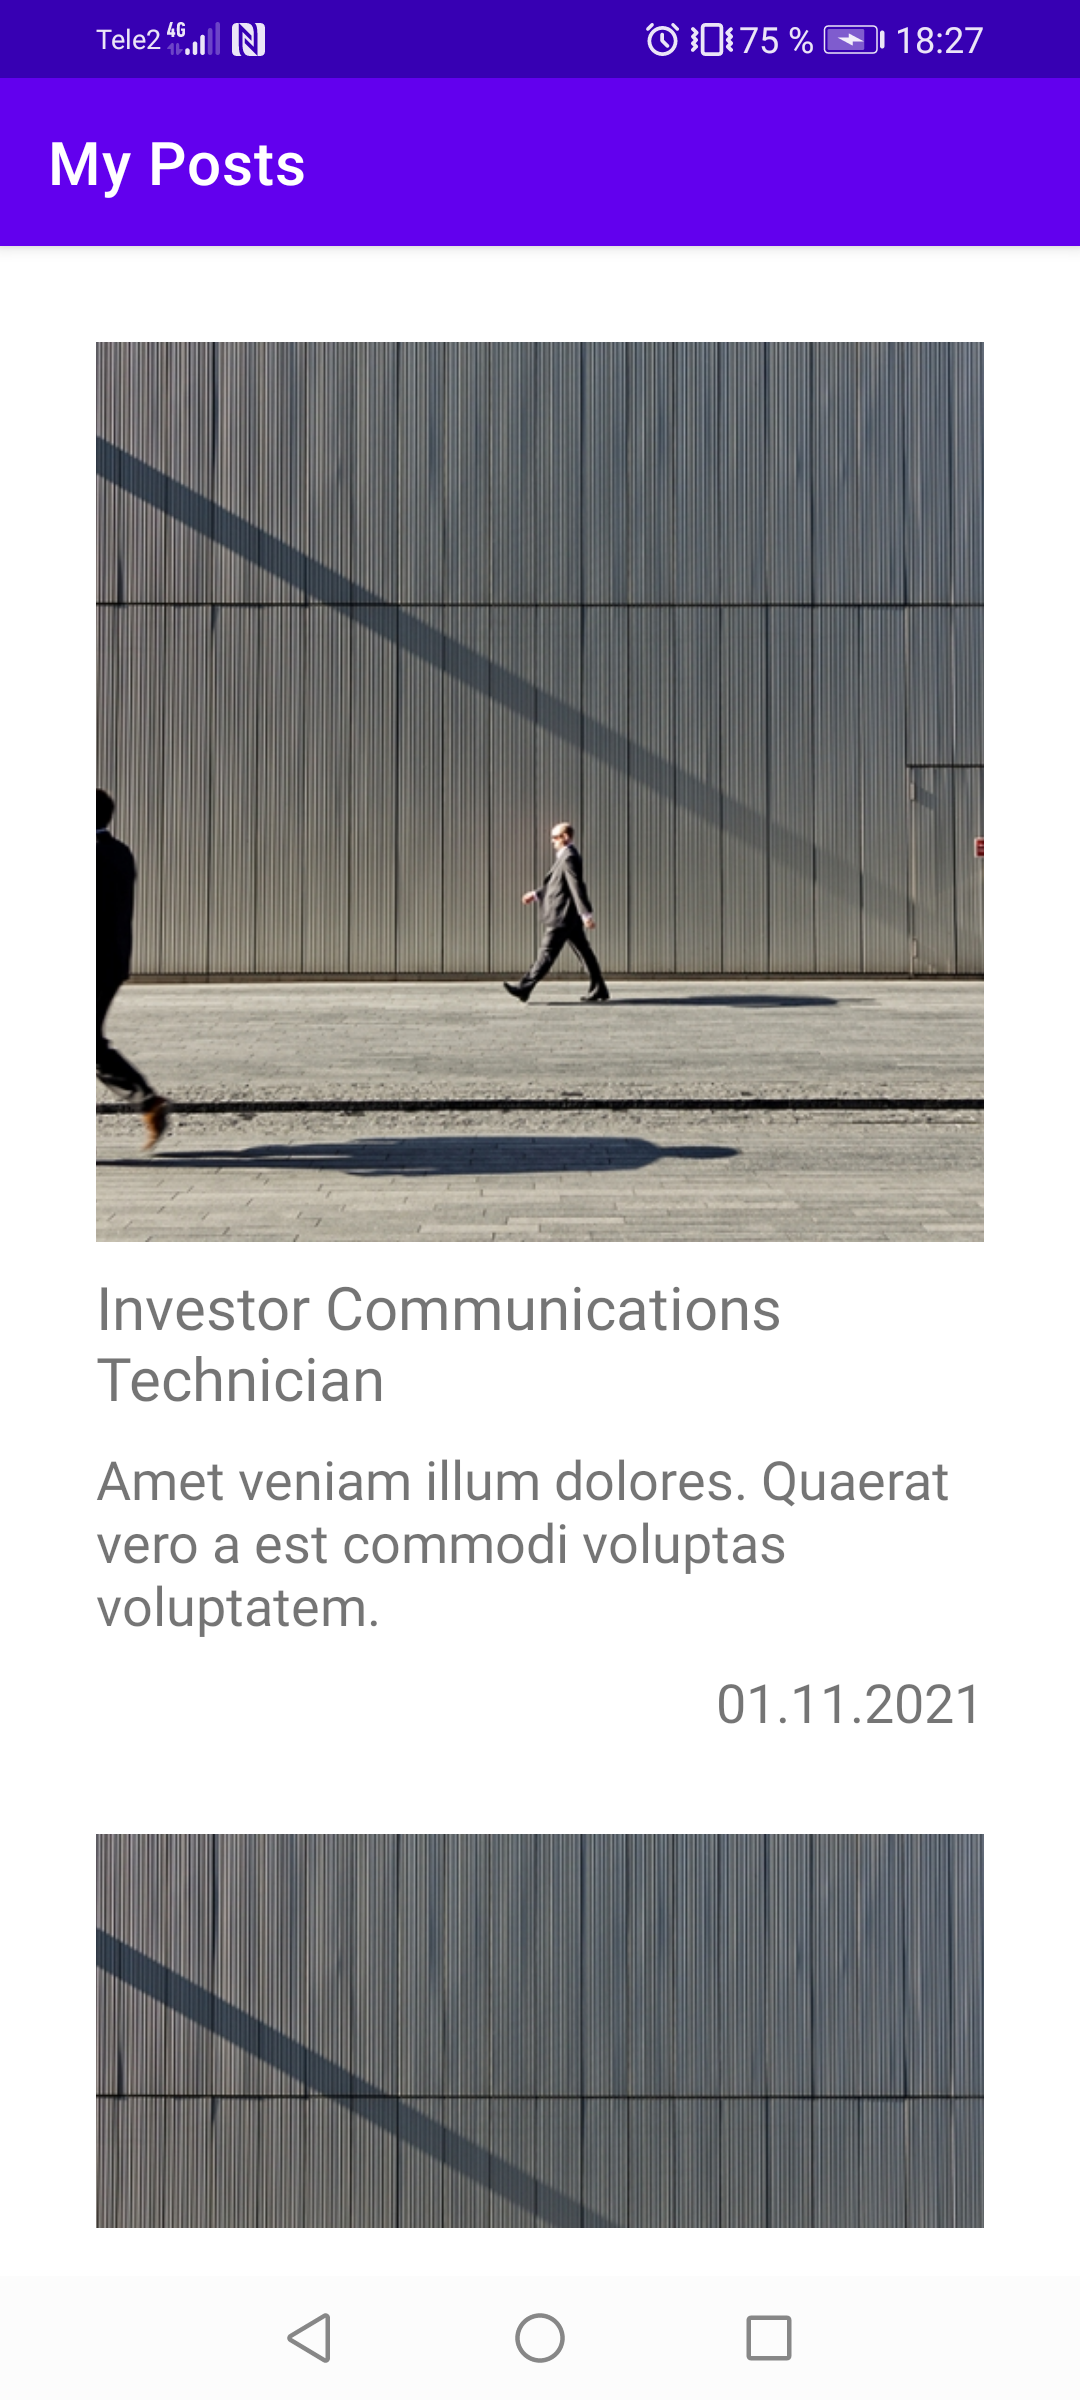
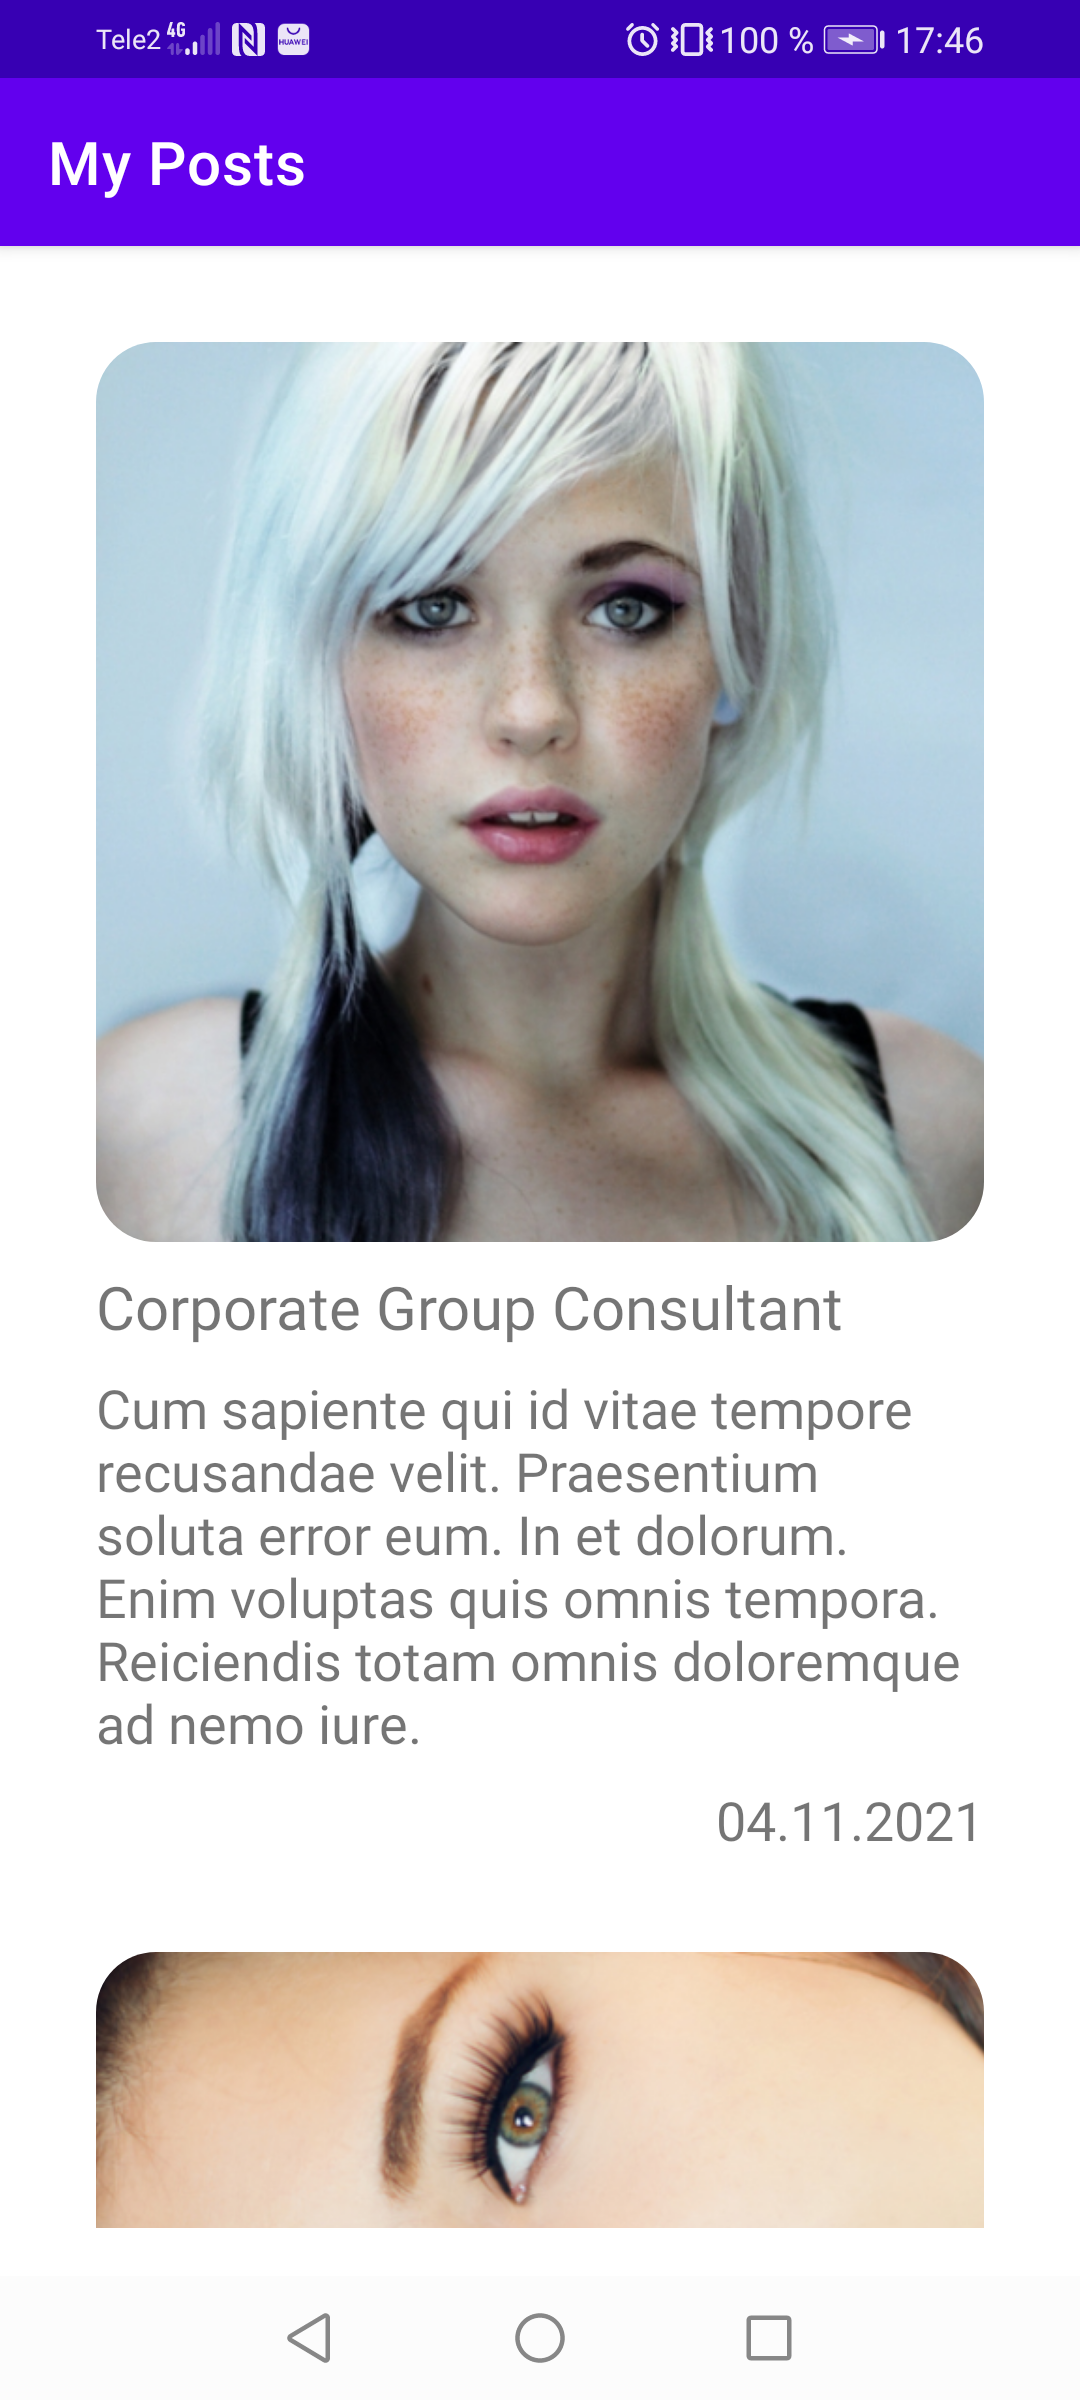
изменение скринов для прилы MyPosts

diff --git a/MyPosts/app/src/main/java/ru/freeit/myposts/ui/view/RoundedImageView.kt b/MyPosts/app/src/main/java/ru/freeit/myposts/ui/view/RoundedImageView.kt
@@ -1,0 +1,48 @@
+package ru.freeit.myposts.ui.view
+
+import android.content.Context
+import android.graphics.*
+import android.graphics.drawable.BitmapDrawable
+import android.util.AttributeSet
+import androidx.appcompat.widget.AppCompatImageView
+
+class RoundedImageView @JvmOverloads constructor(
+    ctx: Context,
+    attrs: AttributeSet? = null,
+    defStyleAttr: Int = 0
+) : AppCompatImageView(ctx, attrs, defStyleAttr) {
+
+    private val Int.dp
+        get() = context.resources.displayMetrics.density * this
+
+    private val roundedBitmapPaint = Paint(Paint.ANTI_ALIAS_FLAG).apply {
+        color = 0xff424242.toInt()
+    }
+
+    override fun onDraw(canvas: Canvas) {
+        val drawable = drawable ?: return
+        if (width == 0 || height == 0) {
+            return
+        }
+        val bitmap = (drawable as BitmapDrawable).bitmap
+        val roundedBitmap = rounded(bitmap, 20.dp)
+        canvas.drawBitmap(roundedBitmap, 0f, 0f, null)
+    }
+
+    private fun rounded(bitmap: Bitmap, radius: Float) : Bitmap {
+        val result = Bitmap.createBitmap(bitmap.width, bitmap.height, Bitmap.Config.ARGB_8888)
+        val canvas = Canvas(result)
+        canvas.drawARGB(0, 0, 0, 0)
+
+        val rectF = RectF(0f, 0f, bitmap.width / 1f, bitmap.height / 1f)
+        canvas.drawRoundRect(rectF,  radius, radius, roundedBitmapPaint)
+        roundedBitmapPaint.xfermode = PorterDuffXfermode(PorterDuff.Mode.SRC_IN)
+
+        val rect = Rect(0, 0, bitmap.width, bitmap.height)
+        canvas.drawBitmap(bitmap, rect, rect, roundedBitmapPaint)
+
+        return result
+    }
+
+
+}
